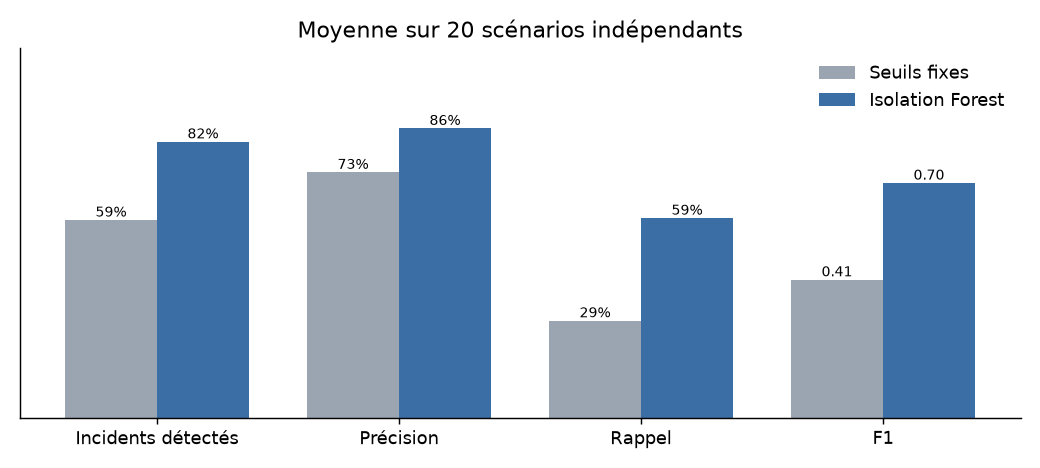
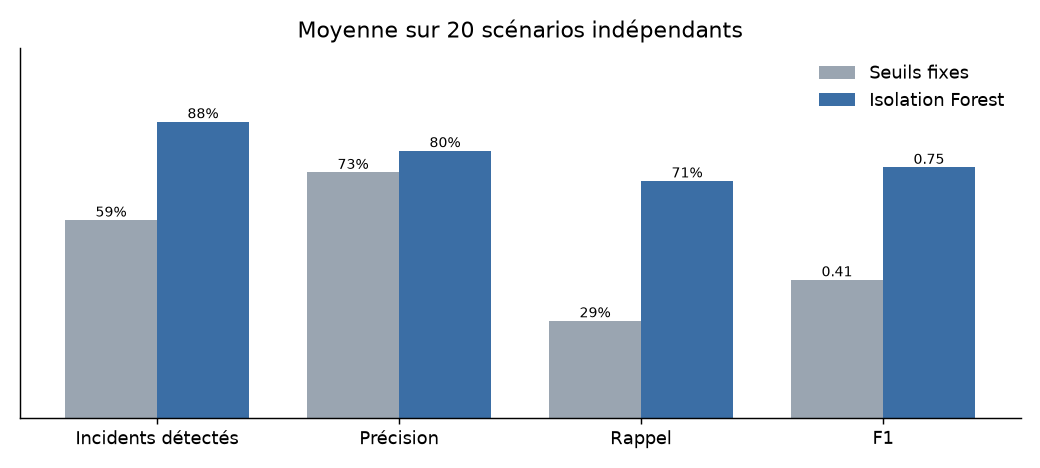
Réglage du seuil de détection : 88 % des incidents détectés (contre 59 % avec des seuils fixes)

diff --git a/siv_monitor/detection.py b/siv_monitor/detection.py
@@ -72,8 +72,8 @@ class MLDetector:
     contamination: float = 0.03
     n_estimators: int = 300
     random_state: int = 0
-    quantile: float = 0.97
-    min_duration: int = 2
+    quantile: float = 0.95
+    min_duration: int = 3
 
     def fit(self, df: pd.DataFrame) -> "MLDetector":
         x = build_features(df)

diff --git a/README.md b/README.md
@@ -20,27 +20,27 @@ Moyenne sur **20 scénarios indépendants** (3 jours de télémétrie et ~30 inc
 
 | Indicateur | Seuils fixes | Isolation Forest |
 |---|---|---|
-| **Incidents détectés** | 59 % | **82 %** |
-| Précision | 73 % | **86 %** |
-| Rappel (minutes d'incident signalées) | 29 % | **59 %** |
-| F1-score | 0.41 | **0.70** |
-| Fausses alertes (par scénario) | 14.7 | **11.5** |
+| **Incidents détectés** | 59 % | **88 %** |
+| Précision | 73 % | **80 %** |
+| Rappel (minutes d'incident signalées) | 29 % | **71 %** |
+| F1-score | 0.41 | **0.75** |
+| Fausses alertes (par scénario) | 14.7 | **12.4** |
 
 ![Comparaison](docs/comparaison.png)
 
-Le modèle détecte **+23 points d'incidents** tout en levant **moins de fausses alertes**. Il réussit notamment là où les seuils échouent :
+Le modèle détecte **+29 points d'incidents** tout en levant **moins de fausses alertes**. Il réussit notamment là où les seuils échouent :
 
 | Type d'incident | Seuils fixes | Isolation Forest |
 |---|---|---|
 | Pic de température brutal | 57 % | **100 %** |
 | Ventilateur défaillant | 100 % | 100 % |
-| Tension d'alimentation qui oscille | 49 % | **74 %** |
-| Latence réseau qui se dégrade | 84 % | **96 %** |
-| Capteur de température figé | 13 % | **45 %** |
+| Tension d'alimentation qui oscille | 49 % | **90 %** |
+| Latence réseau qui se dégrade | 84 % | **99 %** |
+| Capteur de température figé | 13 % | **56 %** |
 
 ![Télémétrie](docs/telemetrie.png)
 
-**Limite connue :** un capteur figé reste difficile à repérer (45 %) — en production, on le compléterait par une règle dédiée de « valeur constante ».
+**Limite connue :** un capteur figé reste le plus difficile à repérer (56 %) — en production, on le compléterait par une règle dédiée de « valeur constante ».
 
 > Les chiffres se reproduisent avec `python main.py --benchmark`.
 
@@ -48,7 +48,7 @@ Le modèle détecte **+23 points d'incidents** tout en levant **moins de fausses
 
 1. **Simulation réaliste** (`siv_monitor/simulator.py`) — cycle jour/nuit, heures de pointe, inertie thermique, régulation du ventilateur, et passages en tunnel qui font chuter le GPS *sans être des pannes* (le piège classique des seuils fixes). Cinq types d'incidents étiquetés sont injectés.
 2. **Variables construites** (`siv_monitor/detection.py`) — volatilité glissante en échelle log (capteur figé, tension instable), signal GPS lissé, et relations physiques entre capteurs (le ventilateur doit suivre la température, la température doit suivre la charge CPU).
-3. **Isolation Forest** — entraîné **sans étiquettes** sur une semaine d'historique ; le seuil de décision est fixé sur cet historique, et une alerte n'est levée que si l'anomalie dure au moins 2 minutes (filtre anti-rebond).
+3. **Isolation Forest** — entraîné **sans étiquettes** sur une semaine d'historique ; le seuil de décision est fixé sur cet historique, et une alerte n'est levée que si l'anomalie dure au moins 3 minutes (filtre anti-rebond).
 4. **Évaluation** (`siv_monitor/evaluation.py`) — taux d'incidents détectés, précision/rappel/F1 minute par minute, et nombre d'épisodes de fausses alertes.
 
 ## 🚀 Lancer le projet
